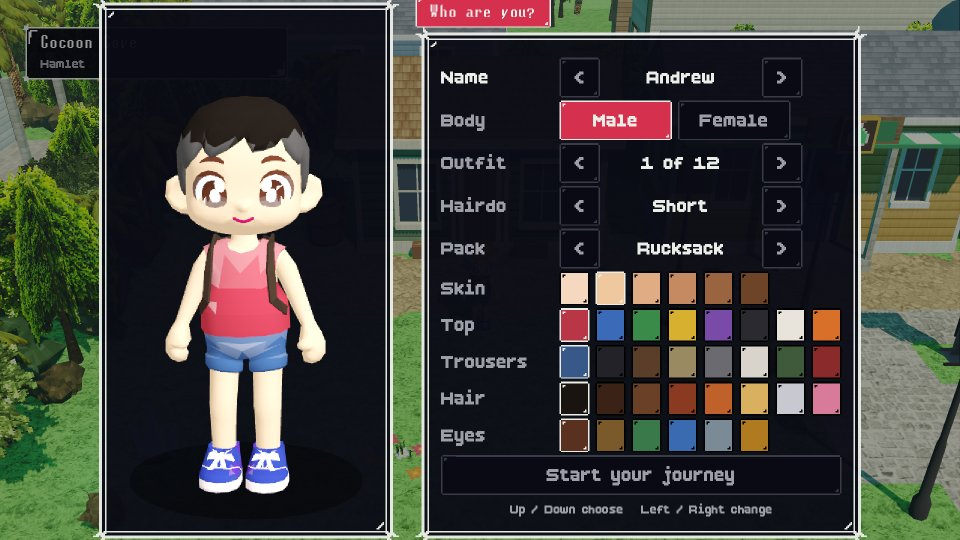
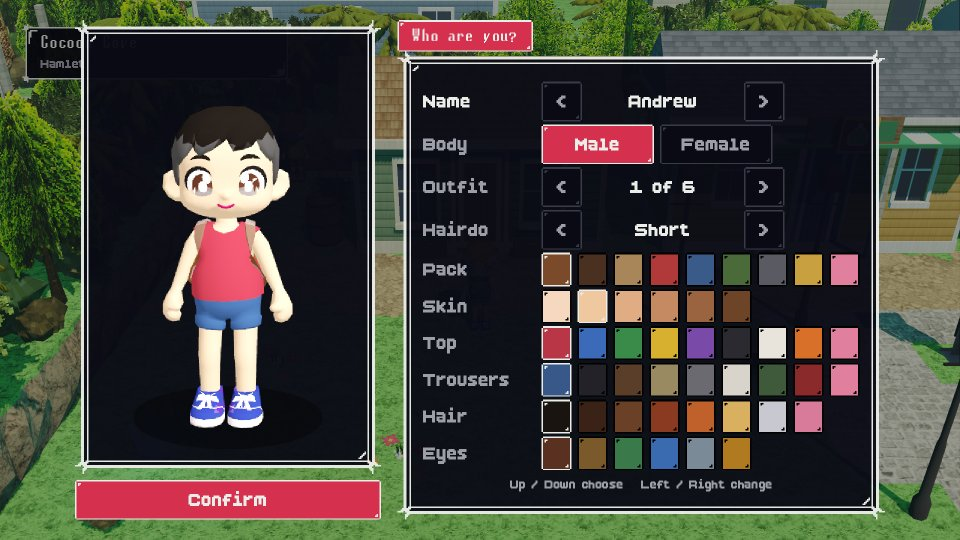
Character creator: fixed eyes and outfits, one recolourable pack, Confirm
Eyes: every head's eye paint was all in the eye colour. As a head loads, the outline (and lashes) turns
dark, each brow takes the hair colour, and only the iris keeps the eye colour.

Outfits: six for him, ten for her (male 3, 8-12 and female 5 and 7 gone). Parts recoloured as they load
(Townfolk.PART_FIXES): male 1's top and shorts one solid colour, male 2's trousers without the kit's tan
cuffs, male 5's shorts one colour and shoes one colour with laces in the top's.

Pack: everyone wears the round backpack and straps of the kit's person 43 (part 103), shaded like clothes
in its own colour slot; the kit's baked packs, with straps floating off the chest, are no longer worn.
The hero picks its colour from a Pack row of swatches (brown to begin with); townsfolk who wear it already
have it in their top's colour. Pink joins the top, trousers and pack swatches.

"Start your journey" is now a Confirm button under the preview, always in the gem's colour, the preview
stretching to stand as tall as the panel. README text and its creator screenshot updated.

diff --git a/README.md b/README.md
@@ -48,7 +48,7 @@ wild beast to walk up to it and use it; if you're already next to it, you use it
 
 You start at home in **Cocoon Cove** on the coast with no beasts, no flute and no songs.
 
-<img src="docs/screenshots/maker.jpg" width="640" alt="The character creator: name, body, outfit, hairdo, pack and colours."><br><sub>The character creator: name, body, outfit, hairdo, pack and colours.</sub>
+<img src="docs/screenshots/maker.jpg" width="640" alt="The character creator: name, body, outfit, hairdo and colours, the pack's too."><br><sub>The character creator: name, body, outfit, hairdo and colours, the pack's too.</sub>
 
 1. Mom tells you that your father's flute is waiting with **Uncle Rafe** in Tidewater, the next town east.
 2. Elder Rowan lets you choose one of four elemental eggs.
@@ -352,7 +352,7 @@ obstacles (driftwood, sand drifts, boulders, dust storms, ravines) still turn up
   Nothing tall stands across a road leading out, or just south of one down the sides, so every way out stays in
   plain sight.
 - **People, eggs, signs and obstacles** are built procedurally:
-  - `voxel_person.gd` builds people from the townfolk kit (`townfolk.gd`, `assets/townfolk/`, baked by `tools/import_townfolk.gd`): 80 people made of the kit's parts on one shared skeleton, coloured by `townfolk.gdshader` from each look's skin, hair, shirt, trousers and hat (the hero in the outfit, hairdo and colours the character creator gave them). Townsfolk pick the kit person who suits their look (a woman for long hair, robes, long sleeves for coats, a hat only if the look has one). Trainers out on the roads (and the arena ladder) wear `outfit: "camo"`: a padded jacket with a big upturned collar and a belt, combat trousers and boots, green or brown camo (`townfolk.gdshader` patches it in cells laid on the body at rest, so the pattern stays on the cloth), and a pack. Everyone can wear a pack (`look.pack`, one of `Townfolk.packs()`); the hero picks theirs in the character creator. People talk with their hands while they speak to you (`set_talking`) and sit on a chair at a table (`set_pose`; `world.gd seat`). The walk is built on the animators' walk-cycle rules: the cadence follows the speed and the stride lengthens with it, so planted feet don't skate; each foot is placed (heel strike, roll, toe-off, a lift through the swing) and the knee bends just enough to reach it; the hips settle as a foot lands, twist with the stride while the chest twists back; arms swing against the legs and trail them a little; a stroll (NPCs) blends into the hero's jog (more lean, a moment in the air, elbows pumping) and a sprint. People turn smoothly to a new facing, ease into and out of their pace, and stand with an idle (breathing, shifting weight, looking about). `--scene=hero --pose=walk --speed=4.6` shows a stride (`--phase`, `--model=tf<n>` for one of the kit's people); `--pose=talk` and `--pose=sit` show the others; `--trainer=<seed>` four camo trainers; `--packs=<n> --view=0|1` the hero in four packs from behind or the side. `tools/townfolk/view.gd` renders the baked people in a grid.
+  - `voxel_person.gd` builds people from the townfolk kit (`townfolk.gd`, `assets/townfolk/`, baked by `tools/import_townfolk.gd`): 80 people made of the kit's parts on one shared skeleton, coloured by `townfolk.gdshader` from each look's skin, hair, shirt, trousers and hat (the hero in the outfit, hairdo and colours the character creator gave them). Townsfolk pick the kit person who suits their look (a woman for long hair, robes, long sleeves for coats, a hat only if the look has one). Trainers out on the roads (and the arena ladder) wear `outfit: "camo"`: a padded jacket with a big upturned collar and a belt, combat trousers and boots, green or brown camo (`townfolk.gdshader` patches it in cells laid on the body at rest, so the pattern stays on the cloth), and a pack. Everyone can wear the pack (`look.pack`, in `look.pack_colour`): one kit person's round backpack and its straps (`Townfolk.PACK`; the kit's other packs sat badly), shaded like clothes in its own colour slot, and in their top's colour for the kit's people who wear it already. The hero always wears it, in the colour they pick in the character creator (brown to begin with). A few of the kit's parts are recoloured as they load (`Townfolk.PART_FIXES`: patchy shorts and tops made one colour, cuffs that kept the kit's tan, shoes all one colour with laces in the top's), and so is every head's eyes: the outline dark, the brows the hair's colour, only the iris the eye colour. People talk with their hands while they speak to you (`set_talking`) and sit on a chair at a table (`set_pose`; `world.gd seat`). The walk is built on the animators' walk-cycle rules: the cadence follows the speed and the stride lengthens with it, so planted feet don't skate; each foot is placed (heel strike, roll, toe-off, a lift through the swing) and the knee bends just enough to reach it; the hips settle as a foot lands, twist with the stride while the chest twists back; arms swing against the legs and trail them a little; a stroll (NPCs) blends into the hero's jog (more lean, a moment in the air, elbows pumping) and a sprint. People turn smoothly to a new facing, ease into and out of their pace, and stand with an idle (breathing, shifting weight, looking about). `--scene=hero --pose=walk --speed=4.6` shows a stride (`--phase`, `--model=tf<n>` for one of the kit's people); `--pose=talk` and `--pose=sit` show the others; `--trainer=<seed>` four camo trainers; `--packs=1 --view=0|1` the hero's pack in four colours from behind or the side. `tools/townfolk/view.gd` renders the baked people in a grid.
   - `voxel_buildings.gd` uses ten architectural styles. Shops never look like houses: they have a shop front at street level (display windows, a sign board with the shop's icon and a striped awning in its colour), and in most towns a flat above. Tidewater's are brick with a flat roof behind a parapet; Cogsworth's darker brick with pipes; Riverbend's and Gravenmoor's have a jettied upper floor; Sundown's a false front and a balcony; Dustwell's adobe with beam ends; Emberfall's a tiled skirt roof; the island and jungle villages have open market stalls; Copperpick has tin shops with false fronts. Out west, only shops wear false fronts.
   - `voxel_props.gd` builds the shop icons, eggs, shards, relics and obstacles.
 - The terrain is made of textured blocks, one per tile; water and lava sit one step lower.
@@ -519,7 +519,7 @@ try before it counts. About three and a half minutes; `bash tools/run_tests.sh q
 - `check_scripts.gd`: every script parses and compiles.
 - `check_data.gd`: everything the data names exists: the beasts (race ids) on routes, maps, trainers, leaders,
   coaches, temples, fishing pools and eggs; songs, moves, shop items and summon models; and everyone on every map,
-  and the hero in every outfit, hairdo and pack, can be dressed.
+  and the hero in every outfit and hairdo (and the pack, in the colour chosen), can be dressed.
 - `check_maps.gd` (above) and `check_beasts.gd` (the beast lines, growing up and merging).
 - The test scenes: the story flow, four-way walking (keys and touch), battle commands, the ring editor, the lessons,
   the coaches, the mascots, and each temple from its stone puzzle to capturing its guardian.
